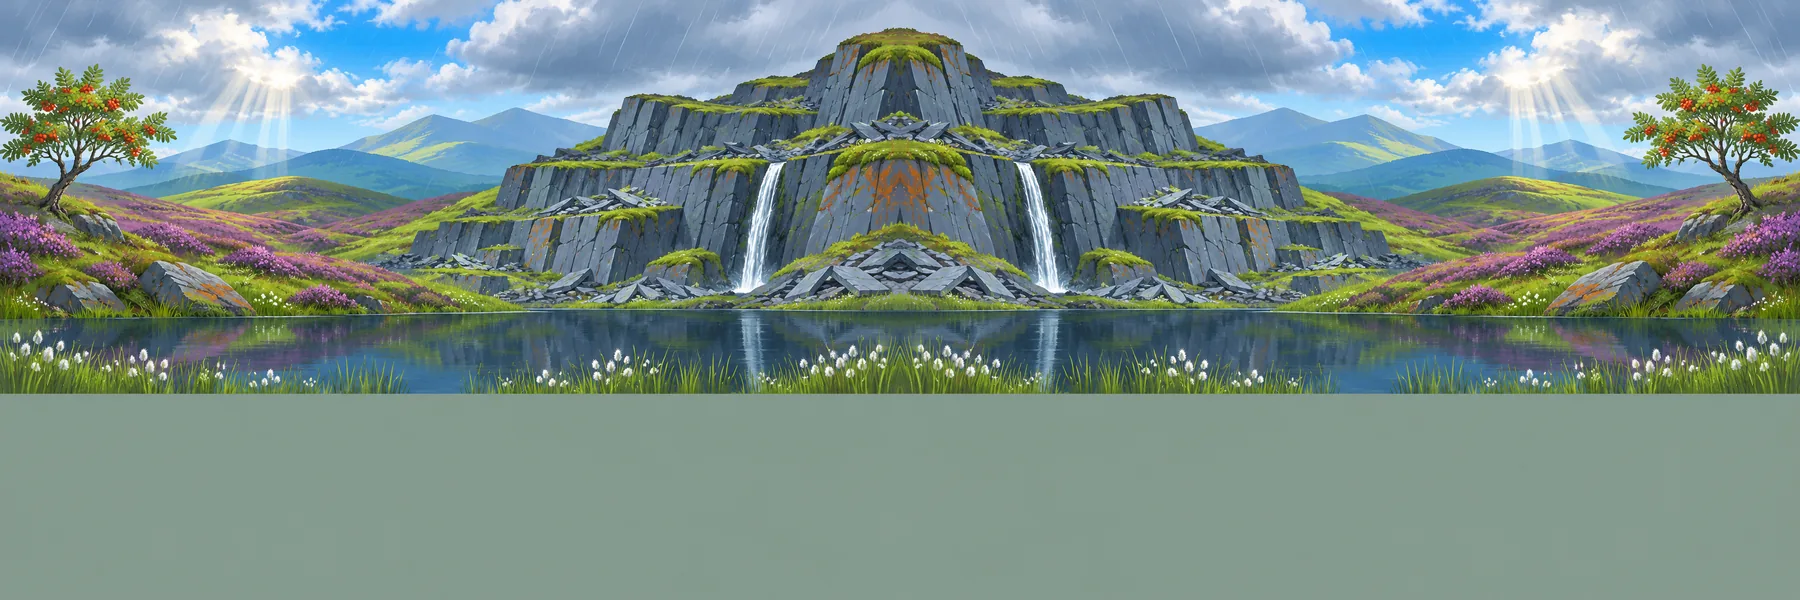
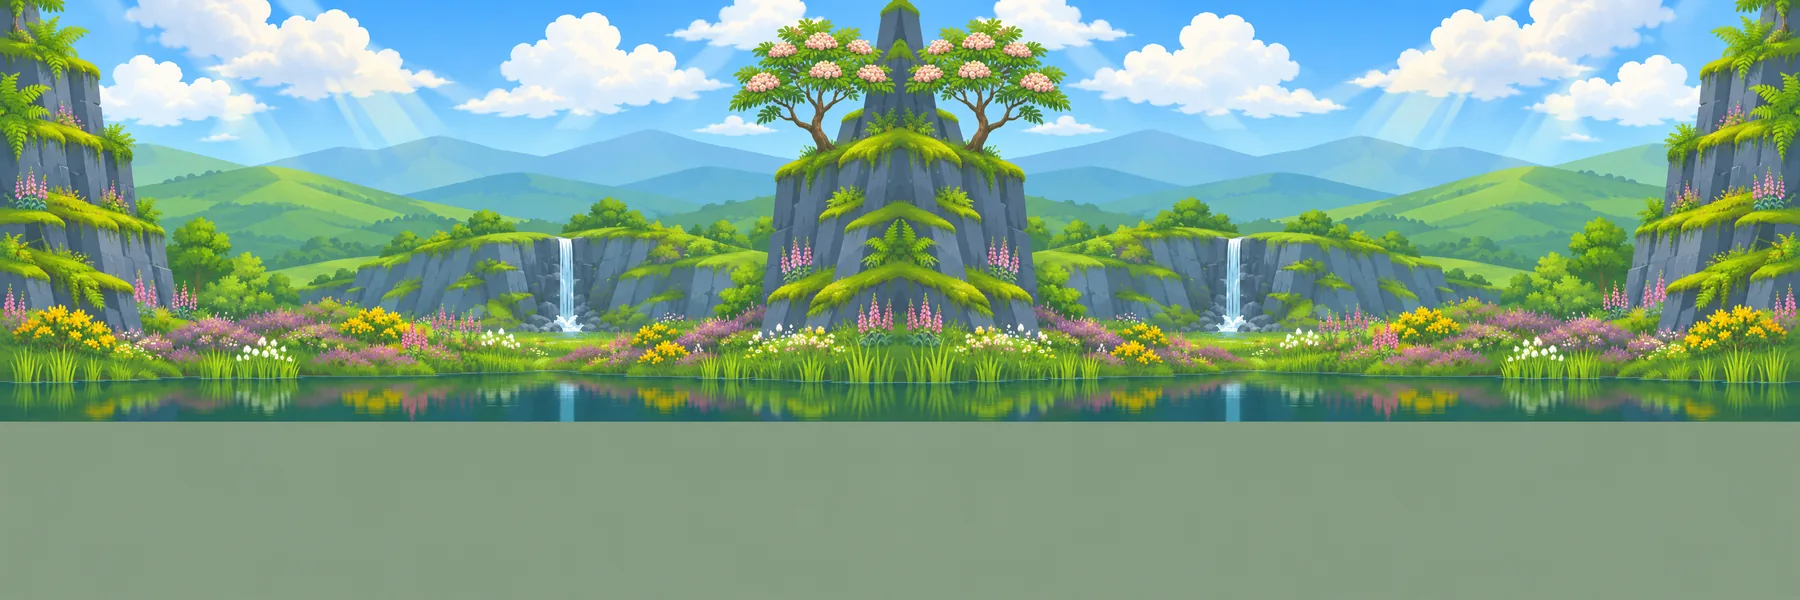
better backdrop

diff --git a/src/game/garage.js b/src/game/garage.js
@@ -21,7 +21,6 @@ const $ = id => document.getElementById(id);
 // a car's whole weight on the road: empty, wheels and load
 const grossTonnes = c => (c.physics.mass + c.physics.wheelMass * c.rig.axles.length) / 1000 + (c.physics.load?.massT ?? 0);
 const el = (tag, cls, text) => { const e = document.createElement(tag); if (cls) e.className = cls; if (text != null) e.textContent = text; return e; };
-const SWIPE_PX = 40;   // a horizontal drag this long on the stage moves one card
 
 export function createGarage({ content, progress, missions, onSelect, onStart, onBuy, onSell, onSeason }) {
   const classes = content.roster.classes, rank = Object.fromEntries(classes.map((c, i) => [c.id, i]));
@@ -84,9 +83,11 @@ export function createGarage({ content, progress, missions, onSelect, onStart, o
   const carTag = c => !owns(c.id) ? (isOpen(c.id) ? null : `Rank ${unlockOf(c.id)}`) : null;
   const carSub = c => owns(c.id) ? `${classes[rank[c.class]]?.name ?? ''} · ${c.drive ?? ''}` : isOpen(c.id) ? `${formatCoins(progress.price(c.id))} coins` : 'Locked';
 
-  function renderStage() {
-    const box = $('hcCards'); box.replaceChildren();
+  // rebuild: false keeps the sliding row as it is (a swipe landing); true redraws its cards (a purchase, a new class)
+  function renderStage(rebuild = true) {
+    const box = $('hcCards');
     if (page === 'home') {
+      deck.clear(); box.replaceChildren();
       const s = seasonList.find(x => x.id === seasonId), m = missions?.active;
       $('hcTitle').textContent = nameOf(car);
       box.append(
@@ -97,24 +98,26 @@ export function createGarage({ content, progress, missions, onSelect, onStart, o
       const frame = box.querySelector('.right .hc-frame'); frame.prepend(gIcon('mission'));
       if (m) frame.append(el('span', 'hc-stars', '★'.repeat(missions.starsFor?.(m) ?? 1)));
     } else if (page === 'seasons') {
-      const n = seasonList.length, at = i => seasonList[(i + n) % n];
-      const s = at(seasonAt), open = s.status === 'playable';
-      $('hcTitle').textContent = s.name;
-      const sCard = (where, x, d) => card(where, { label: where === 'main' ? '' : x.name, sub: where === 'main' && x.id === seasonId ? 'Selected' : null, pic: seasonPic(x.id), kind: 'scene', cardArt: hasCardArt(x.id), locked: x.status === 'playable' ? null : 'Coming later', onClick: d ? () => stepSeason(d) : null });
-      if (n > 1) box.append(sCard('side left', at(seasonAt - 1), -1));
-      box.append(sCard('main', s, 0));
-      if (n > 1) box.append(sCard('side right', at(seasonAt + 1), 1));
+      const n = seasonList.length;
+      deck.set({
+        key: 'seasons', items: seasonList, at: seasonAt, rebuild,
+        make: x => card('slide', { label: x.name, pic: seasonPic(x.id), kind: 'scene', cardArt: hasCardArt(x.id), locked: x.status === 'playable' ? null : 'Coming later' }),
+        near: i => { $('hcTitle').textContent = seasonList[i].name; },
+        land: landSeason,
+      });
+      $('hcTitle').textContent = seasonList[seasonAt]?.name ?? '';
+      if (!n) deck.clear();
     } else {
-      const list = classCars(cls), n = list.length;
+      const list = classCars(cls);
       if (!list.includes(browse)) browse = list[0];
-      const i = list.indexOf(browse), at = k => list[(k + n) % n];
       $('hcTitle').textContent = browse ? nameOf(browse) : 'No trucks yet';
-      if (browse) {
-        const vCard = (where, c, d) => card(where, { label: where === 'main' ? '' : nameOf(c), sub: carSub(c), pic: c.artUri.master, kind: 'car', locked: carTag(c), onClick: d ? () => stepCar(d) : null });
-        if (n > 1) box.append(vCard('side left', at(i - 1), -1));
-        box.append(vCard('main', browse, 0));
-        if (n > 1) box.append(vCard('side right', at(i + 1), 1));
-      }
+      if (browse) deck.set({
+        key: `vehicle:${cls}`, items: list, at: list.indexOf(browse), rebuild,
+        make: c => card('slide', { label: nameOf(c), sub: carSub(c), pic: c.artUri.master, kind: 'car', locked: carTag(c) }),
+        near: i => { $('hcTitle').textContent = nameOf(list[i]); },
+        land: i => landCar(list[i]),
+      });
+      else deck.clear();
     }
     renderSpec();
   }
@@ -129,27 +132,129 @@ export function createGarage({ content, progress, missions, onSelect, onStart, o
     }
   }
 
-  // ---------- moving through the cards: tap a side card, swipe, or the arrow keys ----------
-  // the map in the middle is the map at once; a planned one is only shown
-  function stepSeason(d) {
-    const n = seasonList.length; seasonAt = (seasonAt + d + n) % n;
-    const s = seasonList[seasonAt];
+  // ---------- moving through the cards: drag (the row follows the finger and a flick carries on), tap a side card, or the arrows ----------
+  // the map that lands in the middle is the map at once; a planned one is only shown
+  function landSeason(i) {
+    seasonAt = i; const s = seasonList[i];
     if (s.status === 'playable' && s.id !== seasonId) { seasonId = s.id; onSeason?.(s.id); }
-    renderStage();
+    renderSpec(); renderPlay();
   }
-  // an owned truck in the middle is the one PLAY drives
-  function stepCar(d) { const list = classCars(cls), n = list.length; if (!n) return; showCar(list[(list.indexOf(browse) + d + n) % n]); }
+  // an owned truck that lands in the middle is the one PLAY drives
+  function landCar(c) { browse = c; if (owns(c.id) && c.id !== car.id) choose(c); $('hcTitle').textContent = nameOf(c); renderTop(); renderSpec(); renderPlay(); }
   function showCar(c) { browse = c; if (owns(c.id) && c.id !== car.id) choose(c); render(); }
-  const stepPage = d => page === 'seasons' ? stepSeason(d) : page === 'vehicle' ? stepCar(d) : null;
-  {
-    let x0 = null;
-    $('hcStage').addEventListener('pointerdown', e => { x0 = e.clientX; });
-    $('hcStage').addEventListener('pointerup', e => {
-      if (x0 == null) return; const dx = e.clientX - x0; x0 = null;
-      if (Math.abs(dx) > SWIPE_PX) { stepPage(dx < 0 ? 1 : -1); swallowClick(); }
+  const stepPage = d => { if (page !== 'home') deck.go(d); };
+
+  // the sliding row: every card sits at a float position, the middle one at 0; side cards shrink, tilt and dim
+  const deck = (() => {
+    const box = $('hcCards'), slots = new Map();   // virtual index (unbounded, so the row wraps) -> card element
+    let cfg = null, key = null, pos = 0, vel = 0, target = null, raf = 0, last = 0, near = null;
+    let m = { step1: 1, step2: 1, side: .55 };
+    const n = () => cfg?.items.length ?? 0, wrap = k => ((k % n()) + n()) % n();
+    function measure() {
+      const W = box.clientWidth || 1, H = box.clientHeight || 1, tall = W < H * 1.3;
+      const w = tall ? W * 0.8 : Math.min(W * 0.44, H * 1.6), h = Math.min(H - 10, w * (tall ? 0.78 : 0.76));
+      const side = tall ? 0.62 : 0.56, gap = Math.max(10, W * 0.02), sw = w * side;
+      m = { step1: w / 2 + gap + sw / 2, step2: sw + gap, side };
+      box.style.setProperty('--w', `${w}px`); box.style.setProperty('--h', `${h}px`);
+    }
+    function draw() {
+      if (!cfg) return;
+      const count = n(), reach = count > 1 ? 3 : 0, base = Math.round(pos), keep = new Set();
+      for (let k = base - reach; k <= base + reach; k++) {
+        const d = k - pos, ad = Math.abs(d);
+        if (ad > 2.6) continue;
+        keep.add(k);
+        let e = slots.get(k);
+        if (!e) {
+          e = cfg.make(cfg.items[wrap(k)]); e.dataset.k = k; e.tabIndex = -1;
+          e.addEventListener('click', () => { if (k !== Math.round(target ?? pos)) to(k); });
+          slots.set(k, e); box.append(e);
+        }
+        const a = Math.min(ad, 1), sc = 1 - (1 - m.side) * a, sign = Math.sign(d);
+        const x = sign * (a * m.step1 + Math.max(ad - 1, 0) * m.step2);
+        e.style.transform = `translate3d(${x.toFixed(1)}px, 0, 0) rotateY(${(-sign * a * 16).toFixed(2)}deg) scale(${sc.toFixed(4)})`;
+        e.style.opacity = ad <= 1.5 ? 1 : Math.max(0, 1 - (ad - 1.5) / 1.1);
+        e.style.zIndex = String(100 - Math.round(ad * 10));
+        e.style.setProperty('--a', a.toFixed(3)); e.style.setProperty('--s', sc.toFixed(4));
+        e.classList.toggle('mid', ad < 0.5);
+      }
+      for (const [k, e] of slots) if (!keep.has(k)) { e.remove(); slots.delete(k); }
+      const thumb = $('hcTrack')?.firstElementChild;
+      if (thumb && count > 1) { thumb.style.width = `${100 / count}%`; thumb.style.transform = `translateX(${(((pos % count) + count) % count * 100).toFixed(1)}%)`; }
+      const at = count ? wrap(base) : null;
+      if (at !== near) { near = at; if (at != null) cfg.near?.(at); }
+    }
+    // a critically damped spring: no bounce, and a flick's speed carries straight into it
+    function tick(t) {
+      const dt = Math.min(32, t - (last || t)); last = t;
+      if (target != null) {
+        const w = 0.018, acc = w * w * (target - pos) - 2 * w * vel;
+        vel += acc * dt; pos += vel * dt;
+        if (Math.abs(target - pos) < 0.0015 && Math.abs(vel) < 0.0002) {
+          pos = target; vel = 0; const k = target; target = null; raf = 0; last = 0; draw(); cfg?.land(wrap(k)); return;
+        }
+      }
+      draw(); raf = requestAnimationFrame(tick);
+    }
+    const run = () => { if (!raf) { last = 0; raf = requestAnimationFrame(tick); } };
+    function to(k) { if (n() < 2) return; target = k; run(); }
+    // dragging
+    let drag = null;
+    const stage = $('hcStage');
+    stage.addEventListener('pointerdown', e => {
+      if (!cfg || n() < 2 || page === 'home' || e.button > 0 || e.target.closest('.g-classes, .hc-under')) return;
+      drag = { id: e.pointerId, x0: e.clientX, pos0: pos, moving: false, pts: [[e.timeStamp, e.clientX]] };
     });
-    // a swipe must not also count as a tap on the card under the finger
+    stage.addEventListener('pointermove', e => {
+      if (!drag || e.pointerId !== drag.id) return;
+      const dx = e.clientX - drag.x0;
+      if (!drag.moving) {
+        if (Math.abs(dx) < 6) return;
+        drag.moving = true; drag.x0 = e.clientX; drag.pos0 = pos; target = null; vel = 0;
+        if (raf) { cancelAnimationFrame(raf); raf = 0; }
+        try { stage.setPointerCapture(e.pointerId); } catch (err) {}
+      }
+      pos = drag.pos0 - (e.clientX - drag.x0) / m.step1;
+      drag.pts.push([e.timeStamp, e.clientX]); if (drag.pts.length > 8) drag.pts.shift();
+      draw();
+    });
+    const release = e => {
+      if (!drag || e.pointerId !== drag.id) return;
+      const d = drag; drag = null;
+      if (!d.moving) return;
+      swallowClick();
+      // finger speed over the last ~90 ms, in cards per ms
+      const now = e.timeStamp, recent = d.pts.filter(p => now - p[0] < 90), p0 = recent[0] ?? d.pts[0];
+      const v = now > p0[0] ? -(e.clientX - p0[1]) / (now - p0[0]) / m.step1 : 0;
+      const fling = v * 260 * (1 + Math.abs(v) * 160);
+      let k = Math.round(pos + Math.max(-14, Math.min(14, fling)));
+      const start = Math.round(d.pos0);
+      if (k === start && Math.abs(pos - d.pos0) > 0.12) k += Math.sign(pos - d.pos0);   // a short drag still moves one card
+      vel = v; to(k);
+    };
+    stage.addEventListener('pointerup', release);
+    stage.addEventListener('pointercancel', release);
+    // a drag must not also count as a tap on the card under the finger
     const swallowClick = () => { const stop = ev => { ev.stopPropagation(); ev.preventDefault(); }; window.addEventListener('click', stop, { capture: true, once: true }); setTimeout(() => window.removeEventListener('click', stop, { capture: true }), 400); };
+    window.addEventListener('resize', () => { if (cfg) { measure(); draw(); } });
+    return {
+      set(next) {
+        const same = next.key === key && cfg;
+        cfg = next; box.classList.add('deck'); $('hcTrack').hidden = n() < 2;
+        if (same && !next.rebuild) return;
+        if (!same || target == null) { if (raf) cancelAnimationFrame(raf); raf = 0; target = null; vel = 0; pos = Math.max(0, next.at); }
+        key = next.key; near = null;
+        box.replaceChildren(); slots.clear();   // also lets go of home's three cards
+        measure(); draw();
+      },
+      clear() {
+        if (raf) cancelAnimationFrame(raf); raf = 0; cfg = null; key = null; target = null; vel = 0; drag = null;
+        slots.clear(); box.classList.remove('deck'); $('hcTrack').hidden = true;
+      },
+      go(d) { if (n() > 1) to(Math.round(target ?? pos) + d); },
+    };
+  })();
+  {
     window.addEventListener('keydown', e => {
       if (garageEl.hidden || document.querySelector('.garage .overlay:not([hidden])')) return;
       if (e.key === 'ArrowLeft') stepPage(-1); else if (e.key === 'ArrowRight') stepPage(1);
@@ -244,7 +349,12 @@ export function createGarage({ content, progress, missions, onSelect, onStart, o
     tuning[car.id] = {}; saveTuning(tuning); renderTuning(); render();
   });
   const tuneOv = $('tuneOv');
-  $('gMenuTune').addEventListener('click', () => { go('home'); if (!owns(car.id)) return; renderTuning(); tuneOv.hidden = false; });
+  // only a truck the player owns can be upgraded: the button is off while an unbought one is in view
+  const inView = () => page === 'vehicle' ? browse : car;
+  $('gMenuTune').addEventListener('click', () => {
+    if (!owns(inView().id)) { shake($('gMenuTune')); return; }
+    go('home'); if (!owns(car.id)) return; renderTuning(); tuneOv.hidden = false;
+  });
   $('tuneDone').addEventListener('click', () => { tuneOv.hidden = true; render(); });
 
   // powers: one at a time for this truck, kept until another is picked; tapping the one that is on turns it off
@@ -309,7 +419,7 @@ export function createGarage({ content, progress, missions, onSelect, onStart, o
   // ---------- PLAY, and the player's rank and coins ----------
   function renderTop() {
     $('gCoins').textContent = formatCoins(wallet.coins);
-    $('gMenuTune').disabled = !owns(car.id);
+    $('gMenuTune').disabled = !owns(inView().id);
     if (progress) {
       const pr = progress.progress;
       $('gRankNum').textContent = `Rank ${pr.rank}`;

diff --git a/src/styles/game.css b/src/styles/game.css
@@ -4251,6 +4251,32 @@ dl.spec dd {
 .hc-powers { margin-top: 12px; }
 .hc-powers .powerlist { display: grid; grid-template-columns: repeat(auto-fit, minmax(220px, 1fr)); gap: 8px; }
 
+/* the sliding row (Seasons and Vehicle): every card is the middle card's size, moved, tilted, shrunk and dimmed by garage.js
+   from its distance to the middle (--a: 0 in the middle, 1 at the side; --s: its scale). A yellow rim marks the middle one. */
+.hc-cards.deck { position: relative; display: block; perspective: 1500px; overflow: visible; }
+.hc-stage { overflow: hidden; }
+.hc-card.slide {
+  position: absolute; left: 50%; top: 50%; width: var(--w); height: var(--h); margin: calc(var(--h) / -2) 0 0 calc(var(--w) / -2);
+  display: block; transform-origin: 50% 50%; will-change: transform, opacity; cursor: grab; touch-action: pan-y;
+}
+.hc-card.slide .hc-frame {
+  width: 100%; height: 100%; aspect-ratio: auto;
+  outline: 2px solid rgba(242, 194, 26, calc(.8 - var(--a, 0) * .8));
+  box-shadow: 0 14px 30px rgba(0, 0, 0, .6), 0 0 calc(26px * (1 - var(--a, 0))) rgba(242, 194, 26, calc(.18 * (1 - var(--a, 0))));
+}
+.hc-card.slide::after { content: ''; position: absolute; inset: 0; background: #07080a; opacity: calc(var(--a, 0) * .42); pointer-events: none; }
+.hc-card.slide .hc-label {
+  position: absolute; left: 0; right: 0; bottom: 100%; margin-bottom: calc(8px / var(--s, 1)); text-align: center;
+  display: block; font-size: calc(clamp(15px, 1.6vw, 24px) / var(--s, 1)); opacity: var(--a, 0);
+}
+.hc-card.slide .hc-sub { font-size: calc(clamp(12px, 1.2vw, 17px) / max(var(--s, 1), .8)); }
+.hc-card.slide:active .hc-frame { filter: none; }
+.hc-cards.deck:active .hc-card.slide { cursor: grabbing; }
+/* where in the row the middle card is */
+.hc-track { position: relative; width: min(220px, 40vw); height: 3px; background: rgba(255, 255, 255, .1); overflow: hidden; flex: none; }
+.hc-track[hidden] { display: none; }
+.hc-track i { position: absolute; left: 0; top: 0; bottom: 0; min-width: 8px; background: var(--yellow); }
+
 /* phones on their side */
 @media (max-height: 520px) {
   .garage.hc { --hc-bar: 54px; --hc-top: 40px; padding-left: max(10px, env(safe-area-inset-left)); padding-right: max(10px, env(safe-area-inset-right)); padding-bottom: max(6px, env(safe-area-inset-bottom)); }
@@ -4263,6 +4289,8 @@ dl.spec dd {
   .hc-title { font-size: 20px; }
   .hc-cards { gap: 10px; }
   .hc-label { font-size: 12px; }
+  .hc-card.slide .hc-label { font-size: calc(12px / var(--s, 1)); margin-bottom: calc(4px / var(--s, 1)); }
+  .hc-card.slide .hc-sub { font-size: calc(10px / max(var(--s, 1), .8)); }
   .hc-sub { font-size: 10px; padding: 12px 6px 5px; }
   .hc-spec dt { font-size: 9px; } .hc-spec dd { font-size: 13px; } .hc-spec .g-cell { padding: 0 8px; }
   .hc-bar { gap: 6px; }
@@ -4326,7 +4354,8 @@ dl.spec dd {
   .hc .hc-stage > .g-classes .g-class b { display: none; }
 }
 /* a map card shows the panorama's scenery, not its flat foreground (until the season has its own card art) */
-.hc-frame.scene { background-size: auto 165%; background-position: center 4%; }
+/* a quarter of the way in: the middle of the original picture on a mirrored panorama, never the mirror join */
+.hc-frame.scene { background-size: auto 165%; background-position: 25% 4%; }
 .hc-frame.scene.card-art { background-size: cover; background-position: center; }
 .hc-powers .powerlist { width: 100%; grid-template-columns: repeat(2, minmax(0, 1fr)); }
 @media (orientation: portrait) and (max-width: 1100px) { .hc-powers .powerlist { grid-template-columns: 1fr; } }

diff --git a/tests/browser.test.js b/tests/browser.test.js
@@ -244,10 +244,24 @@ test('the game loads, drives and fits every viewport', { timeout: 900000 }, asyn
     assert.equal(await page.locator('.g-class').count(), 5, 'one tab per class, at the top');
     await page.locator('.g-class', { hasText: 'Scouts' }).click();
     const named = await page.locator('#hcTitle').innerText();
+    // the row slides to the next card, so wait for it to land (and the swipe not to buy or pick anything on the way)
     await page.keyboard.press('ArrowRight');
+    await page.waitForFunction(n => document.querySelector('#hcTitle').innerText !== n, named);
+    await page.waitForTimeout(600);
     assert.notEqual(await page.locator('#hcTitle').innerText(), named, 'swiping on changes the truck');
     await page.keyboard.press('ArrowLeft');
+    await page.waitForFunction(n => document.querySelector('#hcTitle').innerText === n, named);
+    await page.waitForTimeout(600);
     assert.equal(await page.locator('#hcTitle').innerText(), named, 'and back brings it back');
+    // a drag follows the finger, and a fast flick carries over several trucks
+    const deckBox = await page.locator('#hcCards').boundingBox(), dy = deckBox.y + deckBox.height / 2, dx = deckBox.x + deckBox.width / 2;
+    await page.mouse.move(dx + 250, dy); await page.mouse.down();
+    for (let i = 1; i <= 5; i++) { await page.mouse.move(dx + 250 - i * 100, dy); await page.waitForTimeout(8); }
+    await page.mouse.up(); await page.waitForTimeout(1200);
+    assert.notEqual(await page.locator('#hcTitle').innerText(), named, 'a flick moves the row');
+    if (await page.locator('#startBtn.buy, #startBtn.locked').count()) assert(await page.locator('#gMenuTune').isDisabled(), 'a truck not owned cannot be upgraded');
+    await page.locator('.g-class', { hasText: 'Scouts' }).click();
+    await page.waitForTimeout(100);
     await page.locator('.g-class', { hasText: 'Heavy Duty' }).click();
     assert.equal(await page.evaluate(() => __haul.garage.selection.car.class), 'heavy-duty', 'a tab picks an owned truck of its class');
     await page.locator('.g-class', { hasText: 'Scouts' }).click();

diff --git a/src/game-config.js b/src/game-config.js
@@ -79,7 +79,7 @@ export const SERVICE_WINCH_MULTIPLIER = 1.5;  // stronger cable on the class the
 // XP needed in total to reach each rank, rank 1 to 20. Reaching a rank opens one more truck in every class, to buy for its
 // price (cars.json: unlockRank and price). The weakest truck of each class is free from the start.
 export const RANK_XP = [0, 300, 1050, 2175, 3600, 5400, 7500, 9975, 12675, 15600, 18900, 22425, 26250, 30300, 34650, 39225, 44025, 49125, 54450, 60000];
-export const STARTING_RANK = 20;              // local testing value; manually reset to 1 for Google Play
+export const STARTING_RANK = 1;              // local testing value; manually reset to 1 for Google Play
 export const XP_PER_METRE = 0.035;            // for new ground, as the truck gets further along the trail
 export const XP_PER_BOG = 10;                 // for getting through a deep bog
 export const XP_PER_DELIVERY = 100;           // for reaching the depot
@@ -87,7 +87,7 @@ export const MISSION_BASE_XP = 100;          // a mission's XP before its diffic
 export const XP_BY_CLASS = { scout: 1, highway: 1.15, 'heavy-duty': 1.3, offroad: 1.45, heavy: 1.6 };   // harder classes earn more
 
 // ---------- coins ----------
-export const STARTING_COINS = 50000000;              // local testing value; manually reset to 20000 for Google Play
+export const STARTING_COINS = 50000;              // local testing value; manually reset to 20000 for Google Play
 export const COINS_PER_METRE = 0.5;           // added by themselves as the truck gets further along the trail
 export const COINS_PER_CRUSH = 5;             // for each thing crushed
 export const COINS_PER_BOG = 50;              // for getting through a deep bog

diff --git a/src/index.html b/src/index.html
@@ -101,6 +101,7 @@
       <div class="g-classes" id="gClasses" aria-label="Vehicle class"></div>
       <h2 class="hc-title" id="hcTitle"></h2>
       <div class="hc-cards" id="hcCards"></div>
+      <div class="hc-track" id="hcTrack" hidden><i></i></div>
       <div class="hc-under"><dl class="g-spec hc-spec" id="gSpec"></dl><button class="hc-sell" id="gMenuSell" hidden>Sell <small id="gSellFor"></small></button></div>
     </section>
     <!-- the bar: home's five buttons, or a page's back, tabs and action -->
